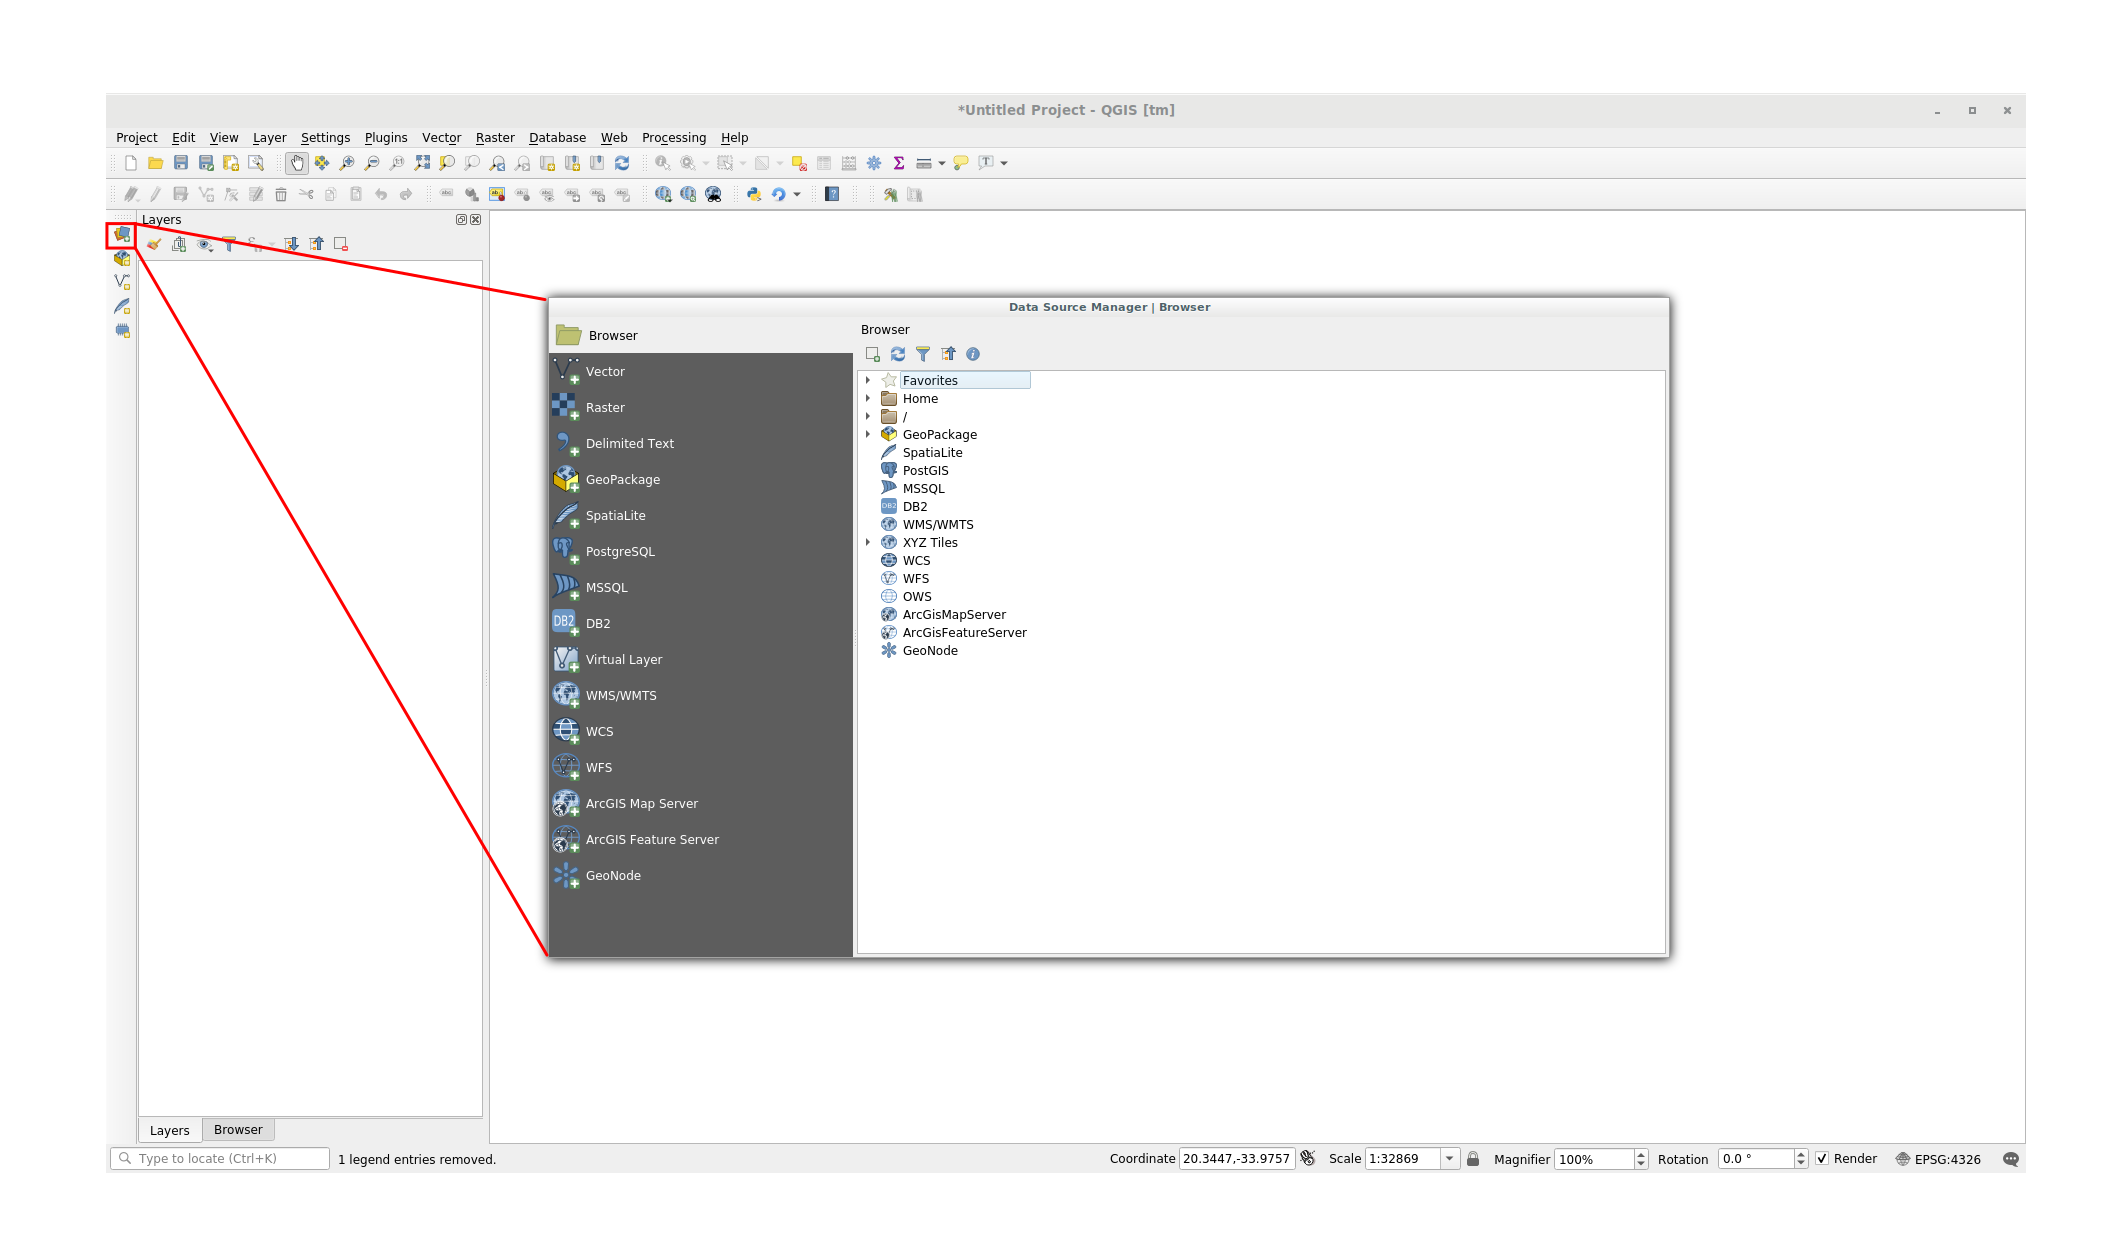
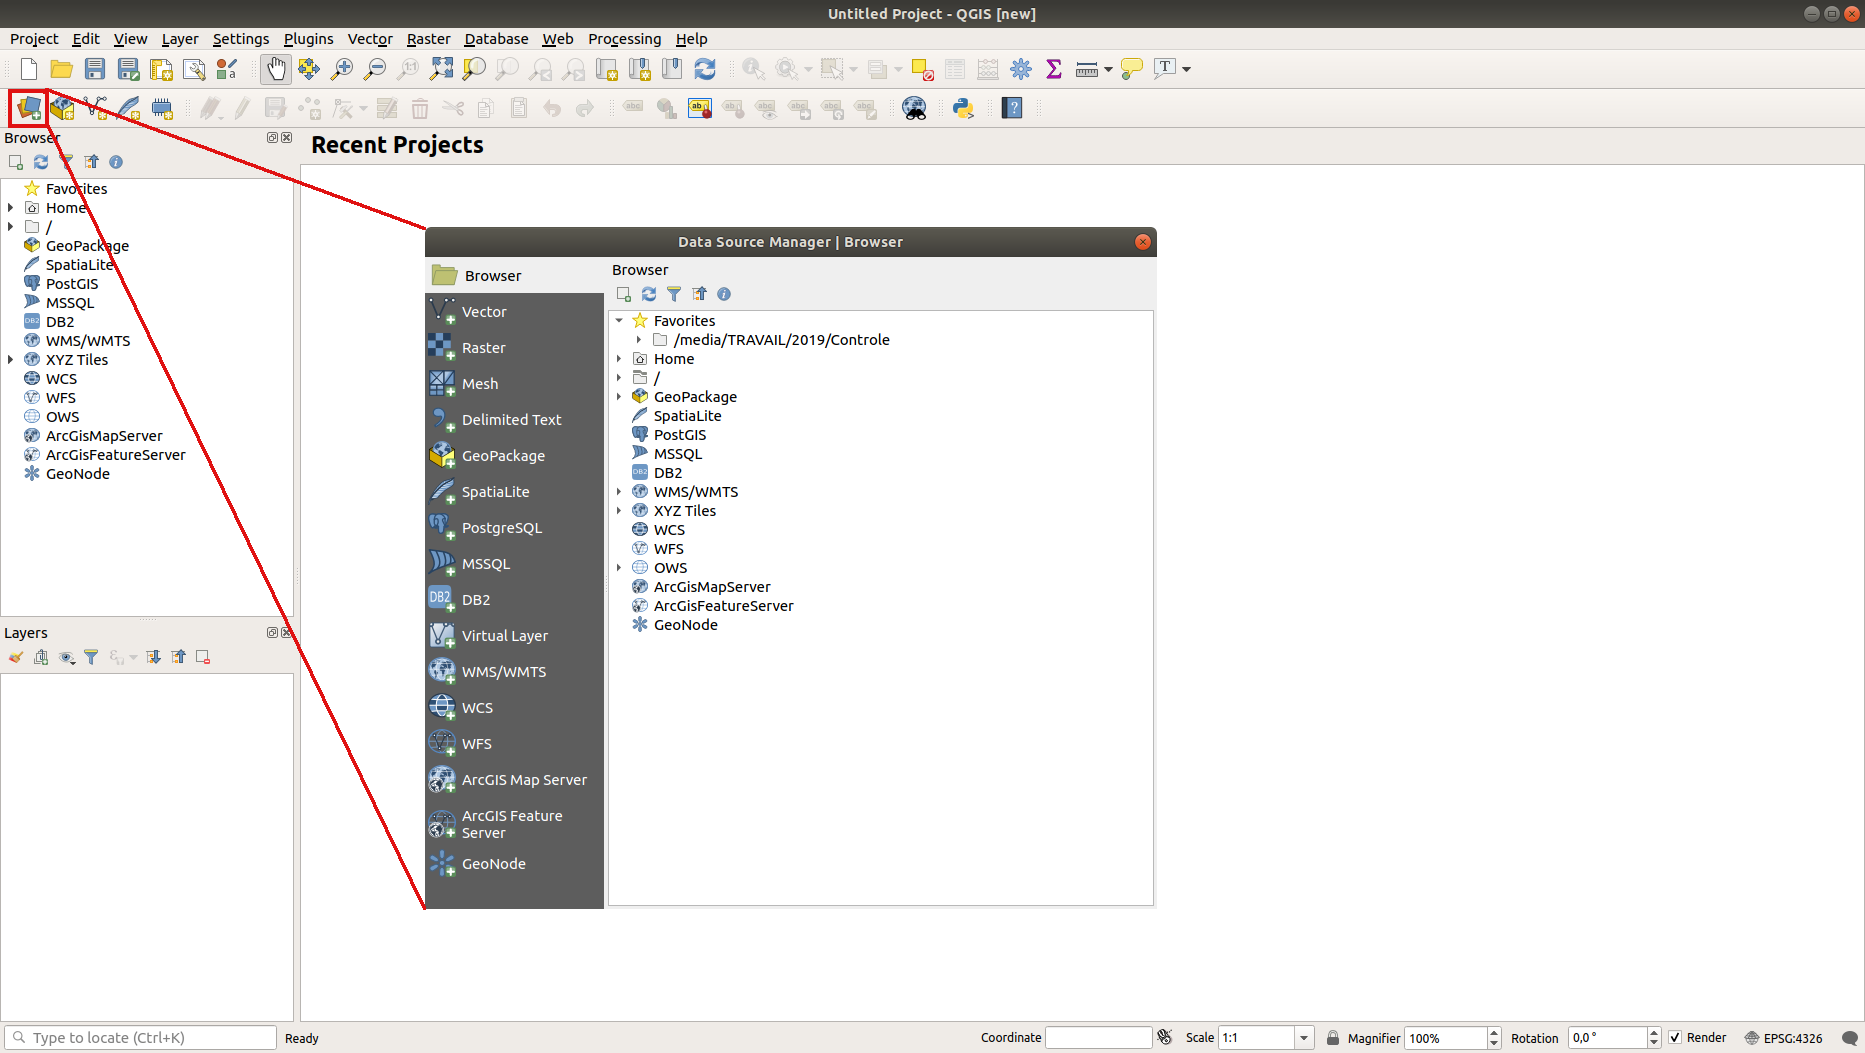
Make the steps more atomic
Add more screenshots/details and fix distortion of first screenshot

diff --git a/source/docs/training_manual/introduction/preparation.rst b/source/docs/training_manual/introduction/preparation.rst
@@ -29,32 +29,50 @@ Let's get started right away!
 -------------------------------------------------------------------------------
 
 #. Open QGIS. You will have a new, blank map.
-#. Click the :guilabel:`Open Data Source Manager` button: |dataSourceManager|.
+
+   .. image:: img/add_blank_qgis.png
+      :align: center
+      :width: 100 %
+
+   |
+
+#. The :guilabel:`Data Source Manager` dialog allows you to choose the data to
+   load depending on the data type. We'll be using it to load our dataset:
+   click the |dataSourceManager| :sup:`Open Data Source Manager` button.
+
    If you can't find the icon, check that the :guilabel:`Data Source Manager`
    toolbar is enabled in the :menuselection:`View --> Toolbars` menu.
 
-   The :guilabel:`Data Source Manager` dialog allows you to choose the data to
-   load depending on the data type:
-   the tabs in the left-hand section of the dialog list the main data types.
-   You can also browse the files directly from the folder of your computer
-   with the *Browser* tab (see :ref:`browser_panel_tm` section):
-
    .. image:: img/add_data_dialog.png
       :align: center
-      :scale: 60 %
+      :width: 100 %
 
-#. Click on the :guilabel:`Vector` tab, enable the |radioButtonOn|:guilabel:`File`
-   source type and press the :guilabel:`...` button next to :guilabel:`Vector
-   Dataset(s)`.
-#. Navigate to the file :file:`exercise_data/shapefile/protected_areas.shp`
-   (in your course directory).
-#. Select the file and click :guilabel:`Open`. You will see the original dialog,
-   but with the file path filled in.
+   |
 
-   .. image:: img/add_vector_dialog.png
-      :align: center
+#. Load the :file:`protected_areas.shp` dataset vector file:
+   
+   #. Click on the :guilabel:`Vector` tab.
+   #. Enable the |radioButtonOn|:guilabel:`File` source type.
+   #. Press the :guilabel:`...` button next to :guilabel:`Vector Dataset(s)`.
+   #. Select the :file:`exercise_data/shapefile/protected_areas.shp` file
+      in your course directory.
+   #. Click :guilabel:`Open`. You will see the original dialog,
+      with the file path filled in.
 
-#. Click :guilabel:`Add` here as well. The data you specified will now load.
+      .. image:: img/add_vector_dialog.png
+         :align: center
+
+      |
+
+   #. Click :guilabel:`Add` here as well. The data you specified will now load:
+      you can see a ``protected_areas`` item in the :guilabel:`Layers` panel
+      (bottom left) with its features shown in the main map canvas.
+
+      .. image:: img/first_loaded_layer.png
+         :align: center
+         :width: 100%
+
+      |
 
 Congratulations! You now have a basic map. Now would be a good time to save
 your work.
@@ -69,14 +87,14 @@ your work.
 -------------------------------------------------------------------------------
 
 Repeat the steps above to add the :file:`places.shp` and :file:`rivers.shp`
-data sets from the same folder (:file:`exercise_data/shapefile`) to the map.
+datasets from the same folder (:file:`exercise_data/shapefile`) to the map.
 
 :ref:`Check your results <interface-preparation-1>`
 
 |IC|
 -------------------------------------------------------------------------------
 
-You've learned how to add a layer and create a basic map!
+You've learned how to add a layer from a shapefile dataset and create a basic map!
 
 |WN|
 -------------------------------------------------------------------------------
